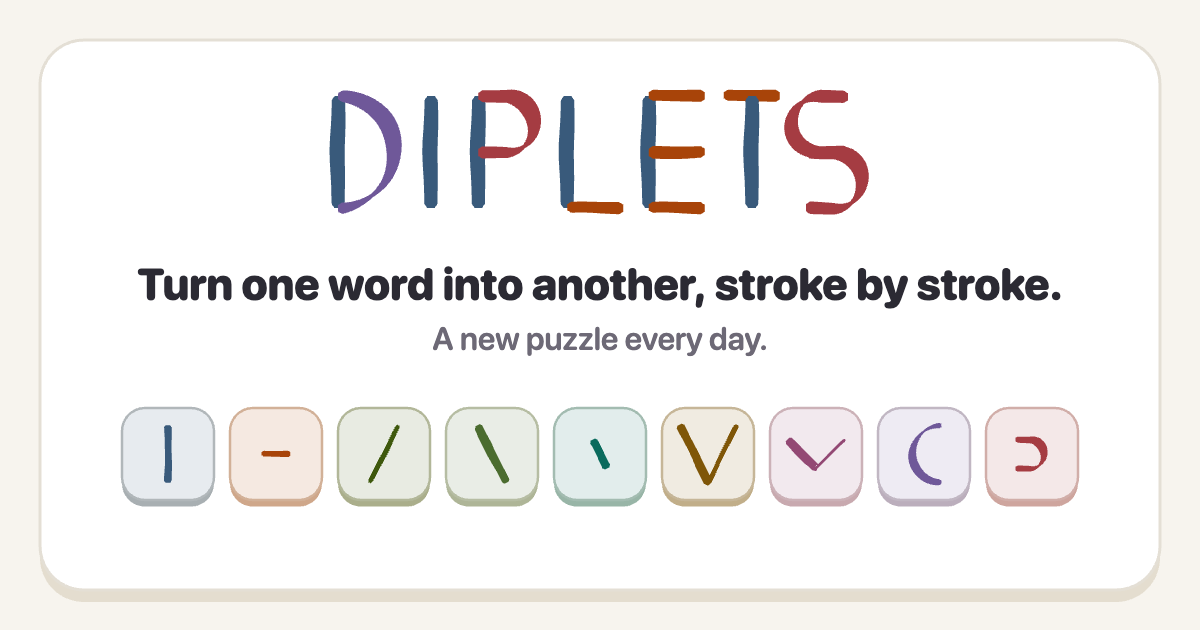
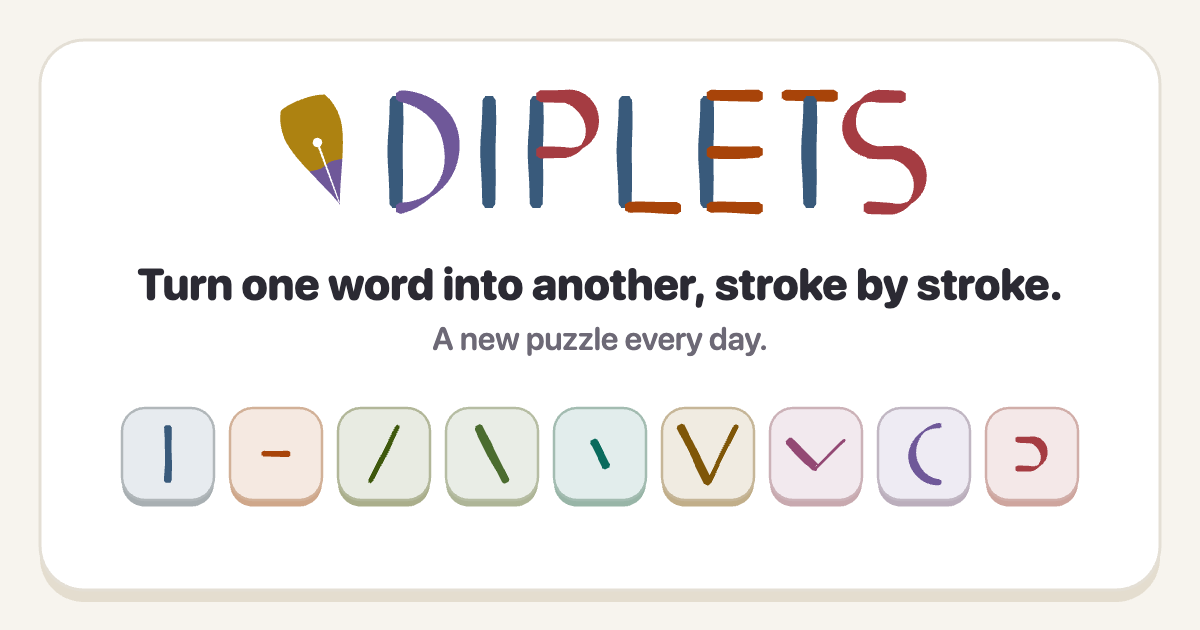
Put the nib on the link preview
The card shown when the site's link is shared now has the wordmark's gold
nib before the name, its tip dipped in the D's purple, as in the header.
The nib's shape and spacing moved into src/nib.ts so the header and the
card share them. og.png was redrawn; its tag asks for ?v=nib.

Changed region(s): [[0.2158, 0.1206, 0.7708, 0.3619]]

diff --git a/src/components/maze/Masthead.tsx b/src/components/maze/Masthead.tsx
@@ -1,56 +1,13 @@
 import { useId } from 'react';
 import { motion } from 'motion/react';
 import { LETTERS, TILES, TILE_IDS, drawnScale, drawnWidth, type TileId } from '../../glyphs';
-import { inkOutline, inkSeed, type Pt } from '../../ink';
-import { profileOf, spaced } from '../../spacing';
+import { inkOutline, inkSeed } from '../../ink';
+import { NIB, NIB_INK, NIB_LEAD, NIB_PATH, afterNib } from '../../nib';
 import { TileStroke } from '../Glyph';
 
 const WORDMARK = 'DIPLETS';
 /** The wordmark's pen: a fifth broader than the game's, so the name stands out but still matches the tray. */
 const BOLD = 1.2;
-/**
- * A gold pen nib before the D, a cap height tall: an arched top, rounded shoulders and sides
- * sweeping in to a fine point, with a breather hole and a slit cut through it. It leans `tilt`
- * degrees about its middle, its point towards the D, and sits `room` further from the D than the
- * letters' own spacing would put it. It's dipped in ink (see .nib-ink in styles.css).
- */
-const NIB = { tilt: -20, room: 0.3 };
-/** The nib's right side, from the middle of its top to its point: a quadratic, then two cubics. Its left side mirrors it. */
-const NIB_SIDE: Pt[][] = [
-  [[0, 0], [0.22, -0.01], [0.42, 0.06]],
-  [[0.42, 0.06], [0.5, 0.2], [0.54, 0.38], [0.53, 0.55]],
-  [[0.53, 0.55], [0.51, 0.95], [0.15, 1.55], [0, 2]],
-];
-const mirror = ([x, y]: Pt): Pt => [-x, y];
-const curve = (seg: Pt[]) => `${seg.length === 3 ? 'Q' : 'C'}${seg.slice(1).map(([x, y]) => `${x} ${y}`).join(' ')}`;
-/** The nib's outline, then its breather hole and slit (cut through it by filling even-odd). */
-const NIB_PATH = [
-  'M0 0',
-  ...NIB_SIDE.map(curve),
-  ...[...NIB_SIDE].reverse().map((seg) => curve([...seg].reverse().map(mirror))),
-  'Z M0.085 0.82 A0.085 0.085 0 1 0 -0.085 0.82 A0.085 0.085 0 1 0 0.085 0.82 Z M-0.02 0.905 L0.02 0.905 L0.01 1.97 L-0.01 1.97 Z',
-].join(' ');
-/** A point `t` of the way along a Bézier segment. */
-function bezier(seg: Pt[], t: number): Pt {
-  let pts = seg;
-  while (pts.length > 1) pts = pts.slice(1).map((p, i): Pt => [pts[i][0] + (p[0] - pts[i][0]) * t, pts[i][1] + (p[1] - pts[i][1]) * t]);
-  return pts[0];
-}
-/** A point of the nib, leaning by its tilt about its middle (0, 1). */
-function tilted([x, y]: Pt): Pt {
-  const t = (NIB.tilt * Math.PI) / 180;
-  return [x * Math.cos(t) - (y - 1) * Math.sin(t), 1 + x * Math.sin(t) + (y - 1) * Math.cos(t)];
-}
-/** The leaning nib's outline as points, its middle at 0: what the name is spaced from. */
-const NIB_PROFILE = (() => {
-  const side = NIB_SIDE.flatMap((seg) => Array.from({ length: 16 }, (_, i) => bezier(seg, (i + 1) / 16)));
-  const outline: Pt[] = [[0, 0], ...side, ...[...side].reverse().map(mirror)];
-  return profileOf([outline.map(tilted)]);
-})();
-/** How far the leaning nib reaches left of its middle. */
-const NIB_LEAD = -Math.min(...NIB_PROFILE.left.filter(Number.isFinite));
-/** The ink it was dipped in, up to a wavy line across its lower part (clipped to the nib). */
-const NIB_INK = 'M-0.7 1.27 C-0.42 1.15 -0.2 1.35 0 1.25 C0.2 1.15 0.42 1.35 0.7 1.22 L0.7 2.1 L-0.7 2.1 Z';
 /**
  * Ink run down from the D's bowl (its letter and part), `x` right of its stem: a neck `neck` wide
  * each side, flaring where it leaves the stroke, down to a teardrop of radius `drop` whose centre is
@@ -77,8 +34,8 @@ interface Placed {
 /** Lay out the wordmark (the nib, then the name) and the parts row, and work out where each stroke flies in from. */
 function layout() {
   const raw: Omit<Placed, 'from'>[] = [];
-  // The letters after the nib, optically spaced (see spacing.ts), from the nib's left edge.
-  const starts = spaced(WORDMARK, BOLD, NIB_PROFILE).map((x) => x + NIB_LEAD + NIB.room);
+  // The letters after the nib, optically spaced, from the nib's left edge.
+  const starts = afterNib(WORDMARK, BOLD);
   for (const [li, ch] of [...WORDMARK].entries()) {
     for (const [pi, p] of LETTERS[ch].parts.entries()) {
       raw.push({ key: `${li}-${pi}`, tile: p.tile, x: starts[li] + p.x * drawnScale(ch).place, y: p.y, rot: p.rot ?? 0, seed: inkSeed(p) });

diff --git a/src/nib.ts b/src/nib.ts
@@ -1,0 +1,58 @@
+// The pen nib before the wordmark, in the header and on the link preview: a gold nib a cap height
+// tall, drawn rather than built from strokes. It has an arched top, rounded shoulders and sides
+// sweeping in to a fine point, with a breather hole and a slit cut through it, and its tip is
+// dipped in the D's purple ink (in the header the ink first runs through the strokes' colours: see
+// .nib-ink in styles.css). Its tip sits on the baseline, in letter units (cap height 2).
+
+import type { Pt } from './ink';
+import { profileOf, spaced } from './spacing';
+
+/**
+ * It leans `tilt` degrees about its middle, its point towards the D, and sits `room` further from
+ * the D than the letters' own spacing would put it.
+ */
+export const NIB = { tilt: -20, room: 0.3 };
+/** The nib's right side, from the middle of its top to its point: a quadratic, then two cubics. Its left side mirrors it. */
+const NIB_SIDE: Pt[][] = [
+  [[0, 0], [0.22, -0.01], [0.42, 0.06]],
+  [[0.42, 0.06], [0.5, 0.2], [0.54, 0.38], [0.53, 0.55]],
+  [[0.53, 0.55], [0.51, 0.95], [0.15, 1.55], [0, 2]],
+];
+const mirror = ([x, y]: Pt): Pt => [-x, y];
+const curve = (seg: Pt[]) => `${seg.length === 3 ? 'Q' : 'C'}${seg.slice(1).map(([x, y]) => `${x} ${y}`).join(' ')}`;
+/** The nib's outline, then its breather hole and slit (cut through it by filling even-odd). */
+export const NIB_PATH = [
+  'M0 0',
+  ...NIB_SIDE.map(curve),
+  ...[...NIB_SIDE].reverse().map((seg) => curve([...seg].reverse().map(mirror))),
+  'Z M0.085 0.82 A0.085 0.085 0 1 0 -0.085 0.82 A0.085 0.085 0 1 0 0.085 0.82 Z M-0.02 0.905 L0.02 0.905 L0.01 1.97 L-0.01 1.97 Z',
+].join(' ');
+/** A point `t` of the way along a Bézier segment. */
+function bezier(seg: Pt[], t: number): Pt {
+  let pts = seg;
+  while (pts.length > 1) pts = pts.slice(1).map((p, i): Pt => [pts[i][0] + (p[0] - pts[i][0]) * t, pts[i][1] + (p[1] - pts[i][1]) * t]);
+  return pts[0];
+}
+/** A point of the nib, leaning by its tilt about its middle (0, 1). */
+function tilted([x, y]: Pt): Pt {
+  const t = (NIB.tilt * Math.PI) / 180;
+  return [x * Math.cos(t) - (y - 1) * Math.sin(t), 1 + x * Math.sin(t) + (y - 1) * Math.cos(t)];
+}
+/** The leaning nib's outline as points, its middle at 0: what the name is spaced from. */
+export const NIB_PROFILE = (() => {
+  const side = NIB_SIDE.flatMap((seg) => Array.from({ length: 16 }, (_, i) => bezier(seg, (i + 1) / 16)));
+  const outline: Pt[] = [[0, 0], ...side, ...[...side].reverse().map(mirror)];
+  return profileOf([outline.map(tilted)]);
+})();
+/** How far the leaning nib reaches left of its middle. */
+export const NIB_LEAD = -Math.min(...NIB_PROFILE.left.filter(Number.isFinite));
+/** The ink it was dipped in, up to a wavy line across its lower part (clipped to the nib). */
+export const NIB_INK = 'M-0.7 1.27 C-0.42 1.15 -0.2 1.35 0 1.25 C0.2 1.15 0.42 1.35 0.7 1.22 L0.7 2.1 L-0.7 2.1 Z';
+
+/**
+ * Where each letter of `word` starts after the nib, drawn with pen `weight`, measured from the
+ * nib's left edge (its middle is at NIB_LEAD).
+ */
+export function afterNib(word: string, weight = 1): number[] {
+  return spaced(word, weight, NIB_PROFILE).map((x) => x + NIB_LEAD + NIB.room);
+}

diff --git a/src/share.ts b/src/share.ts
@@ -6,6 +6,7 @@
 
 import { LETTERS, TILE_IDS, TRAY_TURN, drawnScale, drawnWidth, type TileId } from './glyphs';
 import { inkOutline, inkSeed, opticalOffset } from './ink';
+import { NIB, NIB_INK, NIB_LEAD, NIB_PATH, afterNib } from './nib';
 import { spaced } from './spacing';
 import { letterDiff } from './strokes';
 
@@ -63,10 +64,14 @@ const PAPER = {
 
 const FONT = 'ui-rounded, "SF Pro Rounded", system-ui, -apple-system, "Segoe UI", sans-serif';
 
-/** Draw a word in the game's own ink, `unit` px per letter unit, centred on cx, its top at y, its letters optically spaced (see spacing.ts). */
-function drawWord(ctx: CanvasRenderingContext2D, word: string, cx: number, y: number, unit: number) {
-  const starts = spaced(word);
+/**
+ * Draw a word in the game's own ink, `unit` px per letter unit, centred on cx, its top at y, its
+ * letters optically spaced (see spacing.ts). With `nib`, the wordmark's pen nib goes before it.
+ */
+function drawWord(ctx: CanvasRenderingContext2D, word: string, cx: number, y: number, unit: number, nib = false) {
+  const starts = nib ? afterNib(word) : spaced(word);
   const left = cx - ((starts[starts.length - 1] + drawnWidth(word[word.length - 1])) * unit) / 2;
+  if (nib) drawNib(ctx, left + NIB_LEAD * unit, y, unit);
   for (const [i, ch] of [...word].entries()) {
     const x = left + starts[i] * unit;
     const g = LETTERS[ch];
@@ -82,6 +87,24 @@ function drawWord(ctx: CanvasRenderingContext2D, word: string, cx: number, y: nu
       ctx.restore();
     }
   }
+}
+
+/** The wordmark's gold nib (see nib.ts), its middle at x, its top at y, its tip dipped in the D's purple. */
+function drawNib(ctx: CanvasRenderingContext2D, x: number, y: number, unit: number) {
+  const nib = new Path2D(NIB_PATH);
+  ctx.save();
+  ctx.translate(x, y);
+  ctx.scale(unit, unit);
+  // Leaning about its middle, as in the header.
+  ctx.translate(0, 1);
+  ctx.rotate((NIB.tilt * Math.PI) / 180);
+  ctx.translate(0, -1);
+  ctx.fillStyle = PAPER.gold;
+  ctx.fill(nib, 'evenodd');
+  ctx.clip(nib, 'evenodd');
+  ctx.fillStyle = PAPER.tiles.C;
+  ctx.fill(new Path2D(NIB_INK));
+  ctx.restore();
 }
 
 function roundRect(ctx: CanvasRenderingContext2D, x: number, y: number, w: number, h: number, r: number) {
@@ -276,7 +299,7 @@ export async function drawPreviewCard(canvas = document.createElement('canvas'))
   canvas.height = H;
   const ctx = canvas.getContext('2d')!;
   cardBase(ctx, W, H, 40);
-  drawWord(ctx, 'DIPLETS', W / 2, 96, 56);
+  drawWord(ctx, 'DIPLETS', W / 2, 96, 56, true);
   ctx.textAlign = 'center';
   ctx.fillStyle = PAPER.ink;
   ctx.font = `800 44px ${FONT}`;

diff --git a/index.html b/index.html
@@ -12,7 +12,7 @@
     <meta property="og:title" content="Diplets: a daily word puzzle" />
     <meta property="og:description" content="Turn one word into another, stroke by stroke. A new puzzle every day." />
     <meta property="og:url" content="https://funklunsford.github.io/diplets/" />
-    <meta property="og:image" content="https://funklunsford.github.io/diplets/og.png?v=diplets" />
+    <meta property="og:image" content="https://funklunsford.github.io/diplets/og.png?v=nib" />
     <meta property="og:image:width" content="1200" />
     <meta property="og:image:height" content="630" />
     <meta property="og:image:alt" content="Diplets, written in coloured strokes, over the tray of strokes the game is played with" />

diff --git a/DESIGN.md b/DESIGN.md
@@ -773,7 +773,7 @@ No horizontal scroll at 360–430 px. Not yet tried on a real phone.
 - **Now:** a drawn gold nib (`NIB_PATH` in `src/components/maze/Masthead.tsx`, `--gold`), a cap height tall with its tip on the baseline, 0.8 before the D. It has an arched top, rounded shoulders, sides sweeping in to a fine point, and a breather hole and slit cut through it. Its tip is dipped in the same purple ink as the drip from the D, up to a wavy line. It isn't built from game strokes, so the parts row above the name stays the place that shows all nine.
 - **On load** the nib drops in first, then ink climbs its tip as if it had just been dipped; the letters follow and the D drips once it lands. With less motion it all fades in in place.
 - **Also tried:** an ink drop and a tilted nib made of strokes (clumsy), all nine strokes in a 3 × 3 grid (busy), each stroke set a little apart from its stem (shows how letters are built, but adds no new strokes), and a steel nib (dull grey at header size).
-- **Only in the header** (the owner's call): the share card, link preview and tab icon show the name alone.
+- **In the header and on the link preview** (the owner's call); the result card and tab icon show the name alone.
 
 ## Renamed Diplets, with green ink on the nib (2026-10-10, branch `rename-diplet`)
 - **The owner's call:** rename the game Diplets, to give the word more to show. The S is two bowls, so the name now has curves at both ends (the D's arc, the S's two bowls) instead of ending on straight bars. It's still built from the same 4 kinds of stroke (six long bars, five bars, one arc, three bowls): the S adds two bowls, not new kinds.
@@ -813,3 +813,9 @@ No horizontal scroll at 360–430 px. Not yet tried on a real phone.
 - **In the source:** `scripts/deploy.sh` (and `scripts/setup-deploy-key.sh`) now default to `funklunsford/diplets`. The deploy key and the `STROKES_DEPLOY_KEY` secret carry over, since a deploy key belongs to the repo whatever it's called. The link-preview tags (`og:url`, `og:image`), the share link and the card's footer (`SITE` in `src/share.ts`), the README and comments all use the new address.
 - **Players keep their settings and results:** saved data lives per origin (funklunsford.github.io), not per path, so the `strokes:` keys carry over.
 - **Old links:** GitHub doesn't redirect a Pages site when its repo is renamed, so links to /strokes/ now get a 404.
+
+## The nib on the link preview (2026-10-10, branch `preview-nib`)
+- **The owner's call:** the general link preview (`public/og.png`, the card shown when the site's link is shared) gets the nib before the name, as in the header. The result card and tab icon stay without it.
+- **One nib for both:** its shape, lean and spacing moved from the header into `src/nib.ts`, with `afterNib` placing the letters after it.
+- **On the card:** `drawWord` in `src/share.ts` draws it before the name in the paper palette's gold, its tip dipped in the D's purple. The card is a still picture, so there's no colour cycle.
+- `public/og.png` was redrawn, and its tag now asks for `og.png?v=nib` so apps fetch the new one.
